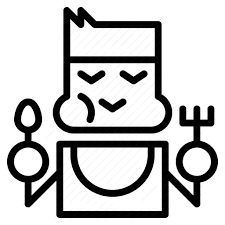
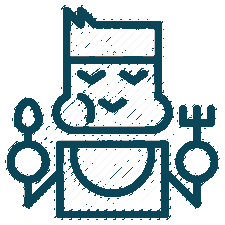
changed colors

diff --git a/index.html b/index.html
@@ -7,7 +7,7 @@
     <meta http-equiv="X-UA-Compatible" content="ie=edge">
     <link href="https://cdn.jsdelivr.net/npm/bootstrap@5.0.0-beta1/dist/css/bootstrap.min.css" rel="stylesheet" integrity="sha384-giJF6kkoqNQ00vy+HMDP7azOuL0xtbfIcaT9wjKHr8RbDVddVHyTfAAsrekwKmP1" crossorigin="anonymous">
     <link rel="preconnect" href="https://fonts.gstatic.com">
-    <link rel="preconnect" href="https://fonts.gstatic.com">
+
     <link href="https://fonts.googleapis.com/css2?family=Bubblegum+Sans&display=swap" rel="stylesheet">
     
     <link rel="stylesheet" href="css/style.css">
@@ -18,8 +18,8 @@
     <div class="outer-container">
         <nav class="navbar navbar-expand-lg navbar-light sticky-top" style="background-color: rgb(17, 206, 187);">
             <div class="container-fluid">
-                <a class="navbar-brand" href="#">
-                    <img src="img/icon.png" alt="" width="34" height="34" class="d-inline-block align-top">  
+                <a class="navbar-brand" style="color: rgb(10, 69, 88); font-weight:bold" href="#">
+                    <img src="img/icon.png" alt="" width="37" height="37" class="d-inline-block align-top">  
                     Heathilicious
                 </a>
                 <button class="navbar-toggler" type="button" data-bs-toggle="collapse" data-bs-target="#navbarSupportedContent" aria-controls="navbarSupportedContent" aria-expanded="false" aria-label="Toggle navigation">
@@ -28,13 +28,13 @@
                 <div class="collapse navbar-collapse" id="navbarSupportedContent">
                     <ul class="navbar-nav me-auto mb-2 mb-lg-0">
                         <li class="nav-item">
-                            <a class="nav-link active" aria-current="page" href="#">Home</a>
+                            <a class="nav-link active" aria-current="page" style="font-size: 17px; color: rgb(10, 69, 88); font-weight:700" href="#"st>Home</a>
                         </li>
                         <li class="nav-item">
-                            <a class="nav-link" href="#">Offers</a>
+                            <a class="nav-link" href="#"  style="font-size: 17px; color:  rgb(10, 69, 88); font-weight:700"">Offers</a>
                         </li>
                         <li class="nav-item dropdown">
-                            <a class="nav-link dropdown-toggle" href="#" id="navbarDropdown" role="button" data-bs-toggle="dropdown" aria-expanded="false">
+                            <a class="nav-link dropdown-toggle"  style="font-size: 17px; color: rgb(10, 69, 88); font-weight:700"" href="#" id="navbarDropdown" role="button" data-bs-toggle="dropdown" aria-expanded="false">
                             Menu
                             </a>
                             <ul class="dropdown-menu" aria-labelledby="navbarDropdown">
@@ -88,7 +88,7 @@
         
         <div class="container menu" >   
             <div class="row" id="vegan">
-                <h1 class="category">VEGAN</h1>
+                <h1 class="category">Vegan</h1>
                 <div class="col col-md-auto item">
                     <img src="img/vegan3.jpg" class="image" alt="">
                     <div class="text">
@@ -125,7 +125,7 @@
                 </div>
             </div>
             <div class="row" id="raw">
-                <h1 class="category">RAW</h1>
+                <h1 class="category">Raw</h1>
                     <div class="col col-md-auto item">
                         <img src="img/raw1.jpg" class="image" alt="">
                         <div class="text">
@@ -159,7 +159,7 @@
             </div>
         
             <div class="row" id="macrobiotic">
-                <h1 class="category">MACROBIOTIC</h1>
+                <h1 class="category">Macrobiotic</h1>
                     <div class="col col-md-auto item">
                         <img src="img/mac1.jpg" class="image" alt="">
                         <div class="text">
@@ -196,7 +196,7 @@
             </div>
 
             <div class="row" id="dessert">
-                <h1 class="category">DESSERTS</h1>
+                <h1 class="category">Desserts</h1>
                     <div class="col col-md-auto item">
                         <img src="img/des1.jpg" class="image" alt="">
                         <div class="text">
@@ -233,7 +233,7 @@
             </div>
           
             <div class="row" id="beverages">
-                <h1 class="category">BEVERAGES</h1>
+                <h1 class="category">Beverages</h1>
                     <div class="col col-md-auto item">
                         <img src="img/bev1.jpg" class="image" alt="">
                         <div class="text">

diff --git a/css/style.css b/css/style.css
@@ -2,6 +2,15 @@
     box-sizing: border-box;
 }
 
+.btn{
+    border: 1px solid rgb(10, 69, 88);
+    color: rgb(10, 69, 88);
+}
+.btn:hover{
+    background-color: rgb(10, 69, 88);
+    color: rgb(17, 206, 187);
+    border: 1px solid rgb(17, 206, 187);
+}
 .carousel-item{
     justify-items: center;
     align-items: center;
@@ -41,7 +50,7 @@ body{
 
 }
 .brand{
-    color: rgb(7, 69, 90);
+    color: rgb(10, 69, 88);
 }
 .heading{
     align-content: center;
